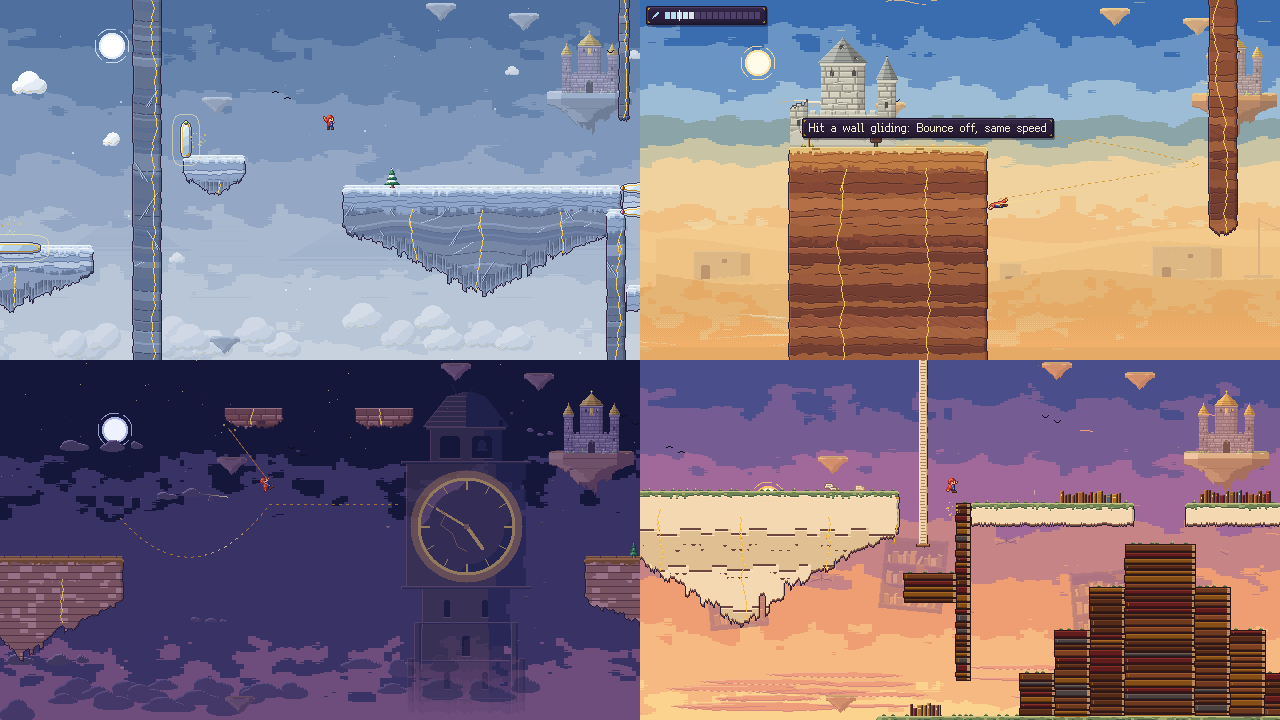
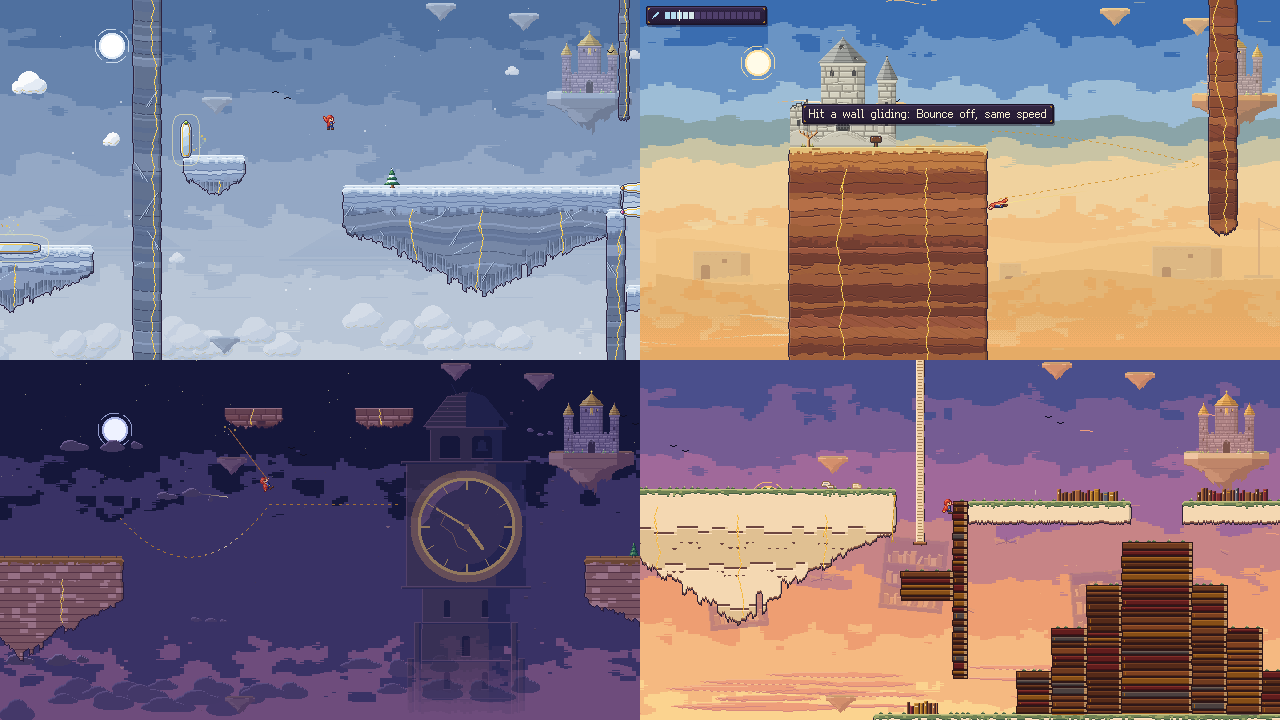
Tidy the English on both pages and re-shoot the relics image
- Keep the Leaping Bracers plural, keep "you" for the player, and use the relic names on the game page
- Untangle a few compressed sentences about timing windows, the blind tests and the knots
- Explain the link point where it first appears
- Re-shoot the relics image from the build that is online

Changed region(s): [[0.5, 0.4889, 1.0, 1.0], [0.625, 0.1222, 0.8438, 0.2139]]

diff --git a/index.html b/index.html
@@ -331,8 +331,8 @@
         <h3>Who made what</h3>
         <dl class="facts">
           <dt>My role</dt><dd>Game direction, story outline and design decisions. The level drafts and the story text were written with Claude.</dd>
-          <dt>Programming</dt><dd>Implemented with AI coding assistants (Claude Code, plus OpenAI Codex and Cursor for parts of the code, the level tuning and the video tools), directed by me. My saved playtest logs cover the physics test course, the old level 1 (finished in 32.8&nbsp;s on 5 November) and the old level 2. I also played level 1's second version and the current levels 1 and 2, without a log. Two browser sessions of the current level 1 on 16 November logged six falls and no finish; I do not know who played them. No logged playtest is confirmed to be from someone new to the game.</dd>
-          <dt>Working with AI</dt><dd>I set the goal, play the build and send drafts back. Three times that changed the game: the cut dive and pull-up (<a href="#step-1">step 1</a>), the world book I threw out (<a href="#step-7">step 7</a>), and the 44-minute level I called off (<a href="#step-10">step 10</a>).</dd>
+          <dt>Programming</dt><dd>Implemented with AI coding assistants (Claude Code, plus OpenAI Codex and Cursor for parts of the code, the level tuning and the video tools), directed by me. My saved playtest logs cover the physics test course, the old level 1 (finished in 32.8&nbsp;s on 5 November) and the old level 2. I also played level 1's second version and the current levels 1 and 2, without a log. Two browser sessions of the current level 1 on 16 November logged six falls and no finish; I do not know who played them. I cannot confirm that any logged playtest came from someone new to the game.</dd>
+          <dt>Working with AI</dt><dd>I set the goal, play the build and send drafts back. Three of those calls changed the game: cutting the dive and pull-up (<a href="#step-1">step 1</a>), throwing out the world book (<a href="#step-7">step 7</a>), and calling off the 44-minute level (<a href="#step-10">step 10</a>).</dd>
           <dt>Status</dt><dd>Playable draft: seven levels and an ending. The level layouts, the lines and the signs are still drafts.</dd>
           <dt>Music</dt><dd>Nine pieces by Kevin MacLeod (<a href="https://incompetech.com">incompetech.com</a>), licensed under <a href="https://creativecommons.org/licenses/by/4.0/">CC BY 4.0</a>. I tried music synthesized in code first and it sounded harsh, so I replaced it. The sound effects are still synthesized in code.</dd>
           <dt>This page</dt><dd>The text was drafted with Claude from my project notes.</dd>
@@ -347,7 +347,7 @@
       </a>
       <a class="card" href="#step-2">
         <img class="pixelated" src="assets/relics-rule.png" alt="" width="1280" height="720" loading="lazy">
-        <div><h3>One rule</h3><p>The doors, the shield and the rope change direction, not speed. The bracer is a double jump; it and the cloak cannot both be used in one jump.</p></div>
+        <div><h3>One rule</h3><p>The doors, the shield and the rope change direction, not speed. The bracers are a double jump; they and the cloak cannot both be used in one jump.</p></div>
       </a>
       <a class="card" href="#step-3">
         <img class="pixelated" src="assets/stitch-guide.png" alt="" width="1280" height="720" loading="lazy">
@@ -368,12 +368,12 @@
           a pull-up. After flying it I said it was not working: running and jumping became the core, and gliding one
           button.</li>
         <li><a href="#step-2"><b>One rule for every relic.</b></a> A relic can change your direction, not your speed. The
-          doors break the rule on purpose, and the bracer became a double jump after I played it.</li>
+          doors break the rule on purpose, and the bracers became a double jump after I played them.</li>
         <li><a href="#step-4"><b>Room is measured, not guessed.</b></a> I asked for no jump that only works if you hit it
           exactly. Scripts measure the timing window of every required step against a 0.4&nbsp;s target and run each level
           with random jitter.</li>
         <li><a href="#step-10"><b>Longer, then smaller.</b></a> I asked for half-hour levels, saw the 44-minute result and
-          called it off. Level 1 was rebuilt three times and now turns on four machines.</li>
+          called it off. Level 1 was rebuilt three times and is now built around four machines.</li>
         <li><a href="#step-11"><b>Can a new player read it?</b></a> A second model, shown screenshots and no design notes,
           named four things a newcomer might miss. After four drawing changes it picked out more of the knots; no player
           has confirmed any of it yet.</li>
@@ -443,18 +443,18 @@
         <p class="tag">TWO EXCEPTIONS</p>
         <p>The doors break the ceiling: going in low and coming out high is free height. So I check how high each pair can
           carry you, and a low island needs a door back.</p>
-        <p>The Leaping Bracers have left the rule. The bracer started as a flip that turned a fall into a rise at the same
-          speed. After playing, I said it felt more like a double jump than a flip, so now it is one: press jump in the air
-          and you jump again, the same height every time, once per jump. Claude measured that the extra height, glided out,
-          carries you 300 to 500&nbsp;px further, enough to skip the ropes in level 6, so for now the bracer and the cloak
-          cannot both be used in one jump. The old flip is kept behind a switch while I compare the two.</p>
+        <p>The Leaping Bracers are the other exception. They started as a flip that turned a fall into a rise at the same
+          speed. After playing, I said they felt more like a double jump than a flip, so now they are one: press jump in the
+          air and you jump again, the same height every time, once per jump. Claude measured that gliding from the extra
+          height carries you 300 to 500&nbsp;px further, enough to skip the ropes in level 6, so for now the bracers and the
+          cloak cannot both be used in one jump. The old flip is kept behind a switch while I compare the two.</p>
         <p class="tag">WHO DID WHAT</p>
-        <p>The glide rule is mine, and the bracer and the doors were my ideas. Claude proposed the rope and the shield,
+        <p>The glide rule is mine, and the bracers and the doors were my ideas. Claude proposed the rope and the shield,
           drafted how all four work and wrote the code.</p>
       </div>
       <div class="side">
         <div class="media"><img class="pixelated" src="assets/relics-rule.png" alt="Four panels, one per relic: the Twin Doors, the Mirror Shield, Roland's Rope and the Leaping Bracers. The doors, the shield and the rope change your direction; the last panel shows the double jump from the top of a book column." width="1280" height="720" loading="lazy"></div>
-        <p class="caption">The doors, the shield and the rope change direction, not speed. The bracer is a double jump; it and the cloak cannot both be used in one jump.</p>
+        <p class="caption">The doors, the shield and the rope change direction, not speed. The bracers are a double jump; they and the cloak cannot both be used in one jump.</p>
       </div>
     </article>
 
@@ -472,8 +472,8 @@
           basket. A miss there costs little: you land on something below or go back to the platform you left. Claude Code
           built the stitching and placed it in the levels.</p>
         <p class="tag">READ AS A ROUTE</p>
-        <p>In a blind test on screenshots, by a model that had not seen any design notes, a chain with gold links was read
-          as stitching that pointed upward, where a glide cannot take you. The chains are now iron, and dashed gold is kept
+        <p>In a blind test on screenshots, a model that had not seen any design notes read a chain with gold links as
+          stitching that pointed upward, where a glide cannot take you. The chains are now iron, and dashed gold is kept
           for the route.</p>
         <p class="tag">OPEN QUESTION</p>
         <p>Whether the stitching reads for someone new to the game. I have played two versions of level 1 with it; nobody
@@ -493,17 +493,18 @@
         <p class="tag">PROBLEM</p>
         <p>Every session I played on my computer wrote a playtest log. In one session on the physics test course, all five falls happened at the
           same gap: I opened the glide too early. An automated level checker put a number on it: that gap had a
-          0.20&nbsp;s timing window, meaning you could press only that much earlier or later and still make it. A test
+          0.20&nbsp;s timing window: a press had to land inside that span to make it. A test
           layout with the wall shortened and moved, and the landing island lowered, widened it to 0.60&nbsp;s.</p>
         <p class="tag">DECISION</p>
-        <p>I asked for room on every step: no jump that only works if you hit it exactly. The targets are a 0.4&nbsp;s window
-          on every required step, which only the last level may go below, and 75% of jitter runs finishing. Scripts written
+        <p>I asked for room on every step: no jump that only works if you hit it exactly. The targets are a timing window of at
+          least 0.4&nbsp;s on every required step, which only the last level may go below, and 75% of jitter runs reaching
+          the end. Scripts written
           by Claude Code and Codex check them:</p>
         <ul>
           <li>The level checker: an autopilot tries eight input strategies at more than 30 timings from each island and
             reports the window. Every required step is also swept on its own, including the ones that go left, up, through
             doors or on the rope.</li>
-          <li>An autopilot that runs each level from the spawn point to the link point in one go. In level 1 it follows the
+          <li>An autopilot that runs each level from the spawn point to the link point, the golden knot at its end, in one go. In level 1 it follows the
             plates: the lift, the ferry, the winch, then the drawbridge.</li>
           <li>An exit check for each level: from every place you can land there is a way back to the route, and the
             shortcuts that would skip the level's idea do not work.</li>
@@ -602,7 +603,7 @@
           and a farmer who never knew who he was raised him on a small island. Years later Mirelle, trapped in the storm,
           reached him in a dream: a hand letting go, a cloak catching a baby, and a woman's voice calling him up to an
           island with a gold roof. He leaves to find out who she is.</p>
-        <p>Each lord you wake gives their name, recognises one thing about him, and says why he should go on to the next
+        <p>Each lord you wake gives their name, recognises one thing about you, and says why you should go on to the next
           castle. Gawen sees the half crown on your cloak, Corvin the thread that never runs out, Elinor the king she once painted in your face, Viola your
           mother's eyes. Roland saw the child fall, and Tomas saw the queen alive on the Throne Isle. Each level keeps one or
           two signs, and in every level one of them shows the king trying to live forever. A narrator adds one sentence at
@@ -614,7 +615,7 @@
         <p>The outline is mine, including its turns: the queen losing the child, the farmer, the king who wanted to live
           forever, the dream from the mage, and the lords frozen by the same spell. Claude asked me questions in twelve
           rounds, each with a recommended answer, and I picked one or wrote my own. The lords' names were proposed by Claude
-          and approved by me. After playing the opening I said the text was bad and asked for the voice of a medieval novel
+          and approved by me. After playing the opening I said the text was not working and asked for the voice of a medieval novel
           and a story you can follow. Claude wrote the lines and the signs; I approved the voice on the opening and the
           first level and had the rest written the same way. I have not gone through those yet.</p>
       </div>
@@ -655,7 +656,7 @@
         <p class="tag">DECISION</p>
         <p>The last level is the storm that broke the kingdom, with the old king still inside it. You do not fight the storm.
           Five golden knots hold the storm together, and each one sits behind a harder version of an obstacle you passed to
-          earn a relic: a stepped wall to slip under for the cloak, a double jump up into a bell of books for the bracer, a
+          earn a relic: a stepped wall to slip under for the cloak, a double jump up into a bell of books for the bracers, a
           door at the bottom of a pit, a mirror well for the shield, and three hanging rocks to swing across for the rope.
           Gold lightning marks the ground for 0.8&nbsp;s before it strikes. Each knot you tie shrinks the storm and saves
           your place. The sixth knot sits at the centre, at the end of a run that uses every move in a row with no save in
@@ -711,7 +712,7 @@
           plate, so you wait for it there and jump in. It carries you to the top of the wall, where the low glide under the
           hanging wall spends that height.</p>
         <p class="tag">RESULT</p>
-        <p>Going through the design principles found real problems, among them: the jump onto the drawbridge started from a
+        <p>Checking the levels against the design principles found real problems, among them: the jump onto the drawbridge started from a
           spot where you could not see where you would land, the plates were three pixels tall, and a third of the level
           was spent waiting for platforms. An independent review by a second model found more, among them: the drawbridge
           timer started while the drawbridge was still off screen; the ferry plank did not catch a full-speed jump (in the
@@ -746,8 +747,8 @@
         <p class="tag">PROBLEM</p>
         <p>Nobody new to the game had played the rebuilt levels. To guess what a first-time player would miss, Claude ran
           blind tests: a second model got screenshots from the game, no design notes, and was asked what each thing was and
-          where it would go next. Four problems stood out. The eleven optional knots added on 13 November
-          were mostly not seen: three of eleven. The plates were not read as something to step on. After a double jump the cloak
+          where it would go next. Four problems stood out. Only three of the eleven optional knots added on
+          13 November were noticed. The plates were not read as something to step on. After a double jump the cloak
           would not open, and nothing on screen said why; in four places that drops you into the clouds. In level 5 the goal
           crystal at your feet was not read as the goal. A fifth, gold standing for too many things, is still open.</p>
         <p class="tag">DECISION</p>
@@ -757,7 +758,7 @@
           land.</p>
         <p class="tag">RESULT</p>
         <p>Screenshots from the same camera positions, with the same questions, before and after. Of the eight knots in frame, the model pointed out
-          four before and seven and six in two runs after. A first try with a dark outline made it worse: two. The plates were
+          four before the changes, then seven and six in two runs afterwards. A first try with a dark outline made it worse: two. The plates were
           now called something to step on, but not linked to the basket they call. The grey cloak was not noticed in either
           run; a small character changing colour does not show in a still frame, so this test cannot say whether it works
           for a person. The crystal in level 5 was no longer marked as a place to get stuck, but it was still not named as
@@ -791,7 +792,7 @@
             was one small level that is well designed.</li>
           <li>Scripts show where a step is tight, not whether a player understands it. The numbers on this page come from
             an autopilot; the open questions are about reading the screen.</li>
-          <li>The AI assistants did most of the building. My part was the calls: fewer moves, stopping the 44-minute
+          <li>The AI assistants did most of the building. My part was the design decisions: fewer moves, stopping the 44-minute
             level, and asking for machines in level 1 after I played it.</li>
         </ul>
       </div>
@@ -824,7 +825,7 @@
 </main>
 
 <footer class="wrap">
-  <p>Headings use Ark Pixel Font (SIL Open Font License 1.1, <a href="assets/OFL-ark-pixel-font.txt">license</a>).
+  <p>Headings use Ark Pixel Font (SIL Open Font License 1.1, <a href="assets/OFL-ark-pixel-font.txt">licence text</a>).
     Game art and sound effects were generated in code for this project. Music: "Morning", "Skye Cuillin", "Ascending the Vale",
     "Midnight Tale", "Frozen Star", "Lord of the Land", "Teller of the Tales", "Heroic Age" and "Enchanted Journey" by Kevin MacLeod
     (<a href="https://incompetech.com">incompetech.com</a>), licensed under <a href="https://creativecommons.org/licenses/by/4.0/">Creative Commons: By Attribution 4.0</a>.</p>

diff --git a/game.html b/game.html
@@ -139,7 +139,7 @@
 <main class="wrap">
   <section>
     <div class="shots">
-      <img class="pixelated" src="assets/shots/home.png" alt="Morning on the farm island where the boy grew up; he asks who she is" width="640" height="360" loading="lazy">
+      <img class="pixelated" src="assets/shots/home.png" alt="Morning on the farm island where the boy grew up; he asks who the woman in his dream is" width="640" height="360" loading="lazy">
       <img class="pixelated" src="assets/shots/thornhold.png" alt="Overcast Thornhold: the player stands in the baron's basket, hung on its chain beside the plate that calls it, with the keep above" width="640" height="360" loading="lazy">
       <img class="pixelated" src="assets/shots/archive.png" alt="Dusk at the Archive: books on narrow ledges between tall columns" width="640" height="360" loading="lazy">
       <img class="pixelated" src="assets/shots/mirrorhold.png" alt="Mirrorhold: icy rooms with tall mirrors set into the walls" width="640" height="360" loading="lazy">
@@ -152,8 +152,8 @@
     <div class="stitched">
       <h2>What is in the game</h2>
       <ul>
-        <li>Seven levels. The first five castles each give you a relic with a new way to move: a glide cloak, a double
-          jump, doors, a mirror shield and a rope. The next level opens with a safe place to try it, and the last level
+        <li>Seven levels. The first five castles each give you a relic with a new way to move: the Glide Cloak, the
+          Leaping Bracers (a double jump), the Twin Doors, the Mirror Shield and Roland's Rope. The next level opens with a safe place to try it, and the last level
           asks for all of them.</li>
         <li>Falling costs little: you come back near the last solid ground you stood on.</li>
         <li>Few hints on screen. The level itself and a line of golden stitching show the way.</li>
@@ -184,7 +184,7 @@
   <p>Made by Shoupeng Gao with AI coding assistants (Claude Code, OpenAI Codex). How it was designed, and who did what:
     <a href="index.html#process">the design process</a>.</p>
   <p>Made with the Godot Engine (<a href="https://godotengine.org/license">MIT license</a>). Text in the game uses Ark Pixel
-    Font by TakWolf (SIL Open Font License 1.1, <a href="assets/OFL-ark-pixel-font.txt">license</a>). Music: "Morning", "Skye Cuillin",
+    Font by TakWolf (SIL Open Font License 1.1, <a href="assets/OFL-ark-pixel-font.txt">licence text</a>). Music: "Morning", "Skye Cuillin",
     "Ascending the Vale", "Midnight Tale", "Frozen Star", "Lord of the Land", "Teller of the Tales", "Heroic Age" and
     "Enchanted Journey" by Kevin MacLeod (<a href="https://incompetech.com">incompetech.com</a>), licensed under
     <a href="https://creativecommons.org/licenses/by/4.0/">Creative Commons: By Attribution 4.0</a>.</p>
